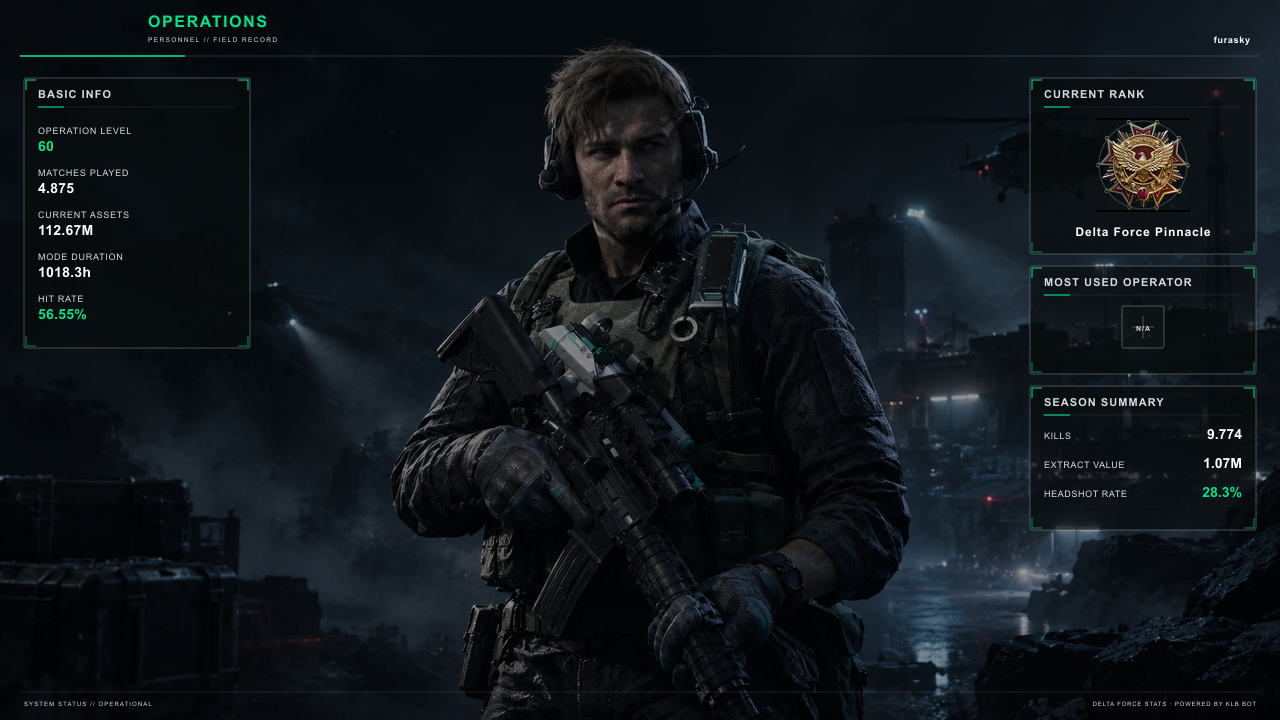
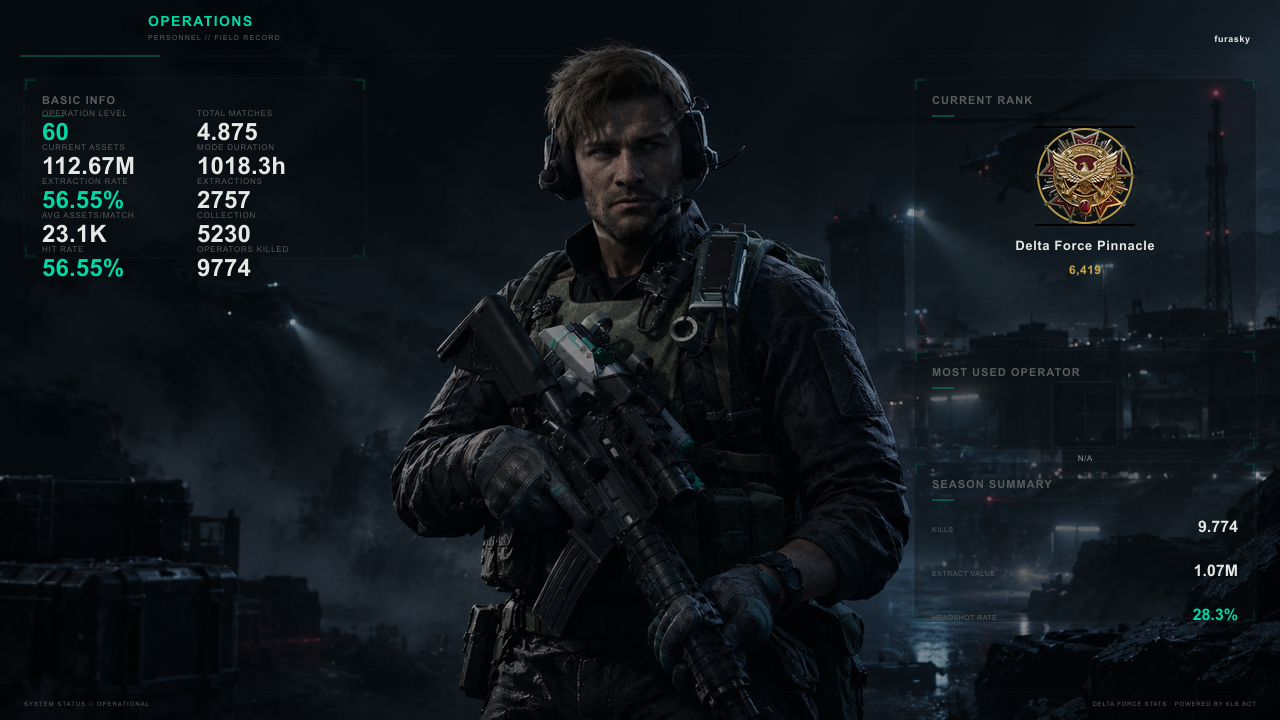
chore: update dev-preview.png and svg-renderer (unrelated changes)

diff --git a/src/renderers/df-stats/svg-renderer.ts b/src/renderers/df-stats/svg-renderer.ts
@@ -85,28 +85,31 @@ const GAP = 12; // 16 → 12 (tighter gap between right panels)
 
 const HEADER_H = 56;
 
-/* Panel trái — 9 metrics, 2-column grid (v3: larger) */
-const BASIC_INFO_H = 430; // 379 → 430 (taller panels)
+/* Panel trái — 9 metrics, 2-column grid (v22: fit content tightly) */
+const BASIC_INFO_H = 180; // 200 → 180 (fit 5 rows × 34px = 170px + title area)
 
-/* Panel phải (v3: larger panels) */
-const RANK_H = 310; // 279 → 310 (more rank prominence)
-const OPERATOR_H = 165; // 148 → 165 (secondary but readable)
-const SEASON_H = 200; // 180 → 200 (secondary but spacious)
+/* Panel phải (v7: compact stack — 614px available, 2 gaps = 24px) */
+const RANK_H = 260; // 240 → 260 (emblem 200 + title + score + name fit)
+const OPERATOR_H = 100; // 110 → 100 (portrait 65 + title + name, compact N/A)
+const SEASON_H = 160; // 180 → 160 (3 rows + title, compact)
+/* Total: 260 + 12 + 100 + 12 + 160 = 544px — 70px clearance from footer */
 
 /* Panel internals (v3: more spacious) */
 const PANEL_PAD = 18; // 14 → 18 (more breathing room)
 const TITLE_Y = 26; // 22 → 26
 const DIVIDER_Y = 38; // 34 → 38
 
-/* Basic info — 2-column grid layout (v3: wider cols) */
-const BI_START_Y = 57;
+/* Basic info — 2-column grid layout (v21: fit 200px panel) */
+const BI_START_Y = 38; // 40 → 38 (content starts after divider)
 const BI_COL_W = 155; // 121 → 155 (wider cols for larger panels)
-const BI_ROW_H = 50; // 44 → 50 (more breathing room)
+const BI_ROW_H = 34; // 40 → 34 (5 rows × 34 = 170px + start 38 = 208px ≈ 200px)
 
-/* Rank (v3: larger emblem for bigger panel) */
-const RANK_EMBLEM_SIZE = 200; // 174 → 200 (prominent rank)
-const RANK_EMBLEM_TOP = RIGHT_COL.y + 65; // 55 → 65 (re-center)
-const RANK_CENTER_X = RIGHT_COL.x + RIGHT_COL.w / 2;
+/* Rank (v8: vertically stacked, centered) */
+const RANK_EMBLEM_SIZE = 100; // giữ nguyên
+const RANK_EMBLEM_CX = RIGHT_COL.x + RIGHT_COL.w / 2; // centered
+const RANK_EMBLEM_CY = RIGHT_COL.y + 48 + RANK_EMBLEM_SIZE / 2; // below title
+const RANK_NAME_Y = RIGHT_COL.y + 48 + RANK_EMBLEM_SIZE + 24; // below emblem
+const RANK_SCORE_Y = RANK_NAME_Y + 24; // below name
 
 /* Operator (v3: larger portrait) */
 const OPERATOR_PORTRAIT_SIZE = 65; // 51 → 65 (more visible)
@@ -232,9 +235,9 @@ export async function renderDashboard(viewModel: DFStatsViewModel): Promise<Buff
         .png()
         .toBuffer();
 
-      const rankLeft = Math.round(RANK_CENTER_X - RANK_EMBLEM_SIZE / 2);
+      const rankLeft = RANK_EMBLEM_CX - RANK_EMBLEM_SIZE / 2;
 
-      const rankTop = RANK_EMBLEM_TOP;
+      const rankTop = RANK_EMBLEM_CY - RANK_EMBLEM_SIZE / 2;
 
       composite = await sharp(composite)
         .composite([
@@ -391,7 +394,7 @@ function renderHeader(nickname: string): string {
   let s = '';
 
   /*
-   * Header baseline.
+   * Header baseline — thin, subtle.
    */
   s +=
     '<line x1="20" y1="' +
@@ -402,19 +405,19 @@ function renderHeader(nickname: string): string {
     HEADER_H +
     '" stroke="' +
     COLORS.borderPanel +
-    '" stroke-width="1" opacity="0.55"/>';
+    '" stroke-width="0.5" opacity="0.35"/>';
 
   /*
-   * Accent tactical xanh lá ngắn.
+   * Accent tactical xanh lá ngắn — thin, restrained.
    */
   s +=
     '<line x1="20" y1="' +
     HEADER_H +
-    '" x2="185" y2="' +
+    '" x2="160" y2="' +
     HEADER_H +
     '" stroke="' +
     COLORS.accent +
-    '" stroke-width="2" opacity="0.75"/>';
+    '" stroke-width="1" opacity="0.50"/>';
 
   /*
    * Logo Delta Force.
@@ -422,12 +425,12 @@ function renderHeader(nickname: string): string {
   s += imageTag(ASSETS.logos.deltaForce, 24, 10, 112, 26);
 
   /*
-   * Nhãn Operations — tactical green accent.
+   * Nhãn Operations — tactical green accent, smaller.
    */
   s +=
-    '<text x="148" y="27" fill="' +
+    '<text x="148" y="26" fill="' +
     COLORS.accent +
-    '" font-size="16" font-weight="700" letter-spacing="1.6" font-family="' +
+    '" font-size="14" font-weight="700" letter-spacing="1.4" font-family="' +
     TYPO.primary +
     '">' +
     'OPERATIONS' +
@@ -437,9 +440,9 @@ function renderHeader(nickname: string): string {
    * Nhãn phụ nhỏ — muted.
    */
   s +=
-    '<text x="148" y="42" fill="' +
+    '<text x="148" y="40" fill="' +
     COLORS.textMuted +
-    '" font-size="7" font-weight="400" letter-spacing="1.4" font-family="' +
+    '" font-size="7" font-weight="400" letter-spacing="1.2" font-family="' +
     TYPO.primary +
     '">' +
     'PERSONNEL // FIELD RECORD' +
@@ -461,9 +464,9 @@ function renderHeader(nickname: string): string {
   s +=
     '<text x="' +
     (CANVAS.width - 30) +
-    '" y="43" fill="' +
+    '" y="42" fill="' +
     COLORS.textPrimary +
-    '" font-size="9" font-weight="700" letter-spacing="0.7" font-family="' +
+    '" font-size="9" font-weight="600" letter-spacing="0.6" font-family="' +
     TYPO.primary +
     '" text-anchor="end">' +
     fitText(nickname, 125, 9) +
@@ -604,22 +607,21 @@ function renderRank(rankName: string, rankScore: number): string {
   s += panelTitle(x, y, w, 'CURRENT RANK');
 
   /*
-   * Placeholder cho ảnh rank thật.
+   * Hierarchy: title → emblem → rank name → score
    *
+   * Vertically stacked, centered in panel.
    * Ảnh thật được composite sau SVG render
-   * với cùng tọa độ top/left.
+   * với cùng tọa độ cx/cy.
    */
-  const cx = RANK_CENTER_X;
-  const cy = RANK_EMBLEM_TOP + RANK_EMBLEM_SIZE / 2;
 
   /*
-   * Outer circle — dark bg for rank emblem (thicker border, v2)
+   * Outer circle — dark bg for rank emblem
    */
   s +=
     '<circle cx="' +
-    cx +
+    RANK_EMBLEM_CX +
     '" cy="' +
-    cy +
+    RANK_EMBLEM_CY +
     '" r="' +
     (RANK_EMBLEM_SIZE / 2 - 3) +
     '" fill="rgba(7,10,12,0.55)" stroke="' +
@@ -627,13 +629,13 @@ function renderRank(rankName: string, rankScore: number): string {
     '" stroke-width="2" opacity="0.9"/>';
 
   /*
-   * Inner decorative circle — gold accent (stronger, double ring)
+   * Inner decorative circle — gold accent
    */
   s +=
     '<circle cx="' +
-    cx +
+    RANK_EMBLEM_CX +
     '" cy="' +
-    cy +
+    RANK_EMBLEM_CY +
     '" r="' +
     (RANK_EMBLEM_SIZE / 2 - 10) +
     '" fill="none" stroke="' +
@@ -645,9 +647,9 @@ function renderRank(rankName: string, rankScore: number): string {
    */
   s +=
     '<circle cx="' +
-    cx +
+    RANK_EMBLEM_CX +
     '" cy="' +
-    cy +
+    RANK_EMBLEM_CY +
     '" r="' +
     (RANK_EMBLEM_SIZE / 2 + 2) +
     '" fill="none" stroke="' +
@@ -655,36 +657,35 @@ function renderRank(rankName: string, rankScore: number): string {
     '" stroke-width="0.5" opacity="0.3"/>';
 
   /*
-   * Rank score — numeric value below emblem (larger, bold).
-   * Dùng textSecondary (sáng) để readable trên panel tối.
+   * Rank name — centered below emblem (white, not gold)
    */
   s +=
     '<text x="' +
-    cx +
+    RANK_EMBLEM_CX +
     '" y="' +
-    (RANK_EMBLEM_TOP + RANK_EMBLEM_SIZE + 22) +
+    RANK_NAME_Y +
     '" fill="' +
-    COLORS.rankGold +
-    '" font-size="14" font-weight="700" letter-spacing="0.6" font-family="' +
+    COLORS.textPrimary +
+    '" font-size="13" font-weight="700" letter-spacing="0.6" font-family="' +
     TYPO.primary +
     '" text-anchor="middle">' +
-    rankScore.toLocaleString('vi-VN') +
+    fitText(rankName, w - 30, 13) +
     '</text>';
 
   /*
-   * Rank name — centered, bold, gold accent
+   * Rank score — ONCE, centered below name (gold, comma separator)
    */
   s +=
     '<text x="' +
-    cx +
+    RANK_EMBLEM_CX +
     '" y="' +
-    (y + h - 14) +
+    RANK_SCORE_Y +
     '" fill="' +
     COLORS.rankGold +
-    '" font-size="12" font-weight="700" letter-spacing="1.0" font-family="' +
+    '" font-size="12" font-weight="600" letter-spacing="0.5" font-family="' +
     TYPO.primary +
     '" text-anchor="middle">' +
-    fitText(rankName, w - 30, 12) +
+    rankScore.toLocaleString('en-US') +
     '</text>';
 
   return s;
@@ -833,7 +834,7 @@ function renderFooter(): string {
   const y = CANVAS.height - 28;
 
   /*
-   * Footer separator.
+   * Footer separator — thin, very subtle.
    */
   s +=
     '<line x1="20" y1="' +
@@ -844,24 +845,24 @@ function renderFooter(): string {
     y +
     '" stroke="' +
     COLORS.borderPanel +
-    '" stroke-width="1" opacity="0.32"/>';
+    '" stroke-width="0.5" opacity="0.20"/>';
 
   /*
-   * Status trái.
+   * Status trái — muted, low weight.
    */
   s +=
     '<text x="24" y="' +
     (CANVAS.height - 14) +
     '" fill="' +
     COLORS.textMuted +
-    '" font-size="6" font-weight="500" letter-spacing="1.1" font-family="' +
+    '" font-size="6" font-weight="400" letter-spacing="1.0" font-family="' +
     TYPO.primary +
     '">' +
     'SYSTEM STATUS // OPERATIONAL' +
     '</text>';
 
   /*
-   * Branding phải.
+   * Branding phải — muted, low weight.
    */
   s +=
     '<text x="' +
@@ -888,7 +889,7 @@ function renderFooter(): string {
  *
  * Reference: rgba(10-25,25-35,25-35,0.70-0.90)
  *
- * v2: Giảm border weight để giảm "card" feel.
+ * v3: Giảm opacity để poster chiếm ưu thế, panels hòa vào poster.
  */
 function panelRect(x: number, y: number, w: number, h: number): string {
   return (
@@ -906,7 +907,7 @@ function panelRect(x: number, y: number, w: number, h: number): string {
     COLORS.bgPanel +
     '" stroke="' +
     COLORS.borderPanel +
-    '" stroke-width="0.5" opacity="0.6"/>'
+    '" stroke-width="0.5" opacity="0.45"/>'
   );
 }
 
@@ -921,7 +922,7 @@ function tacticalCorners(x: number, y: number, w: number, h: number): string {
   let s = '';
 
   /*
-   * Top-left (v2: reduced opacity for less card feel).
+   * Top-left (v3: reduced opacity for subtle tactical feel).
    */
   s +=
     '<path d="M ' +
@@ -938,10 +939,10 @@ function tacticalCorners(x: number, y: number, w: number, h: number): string {
     (y + 2) +
     '" fill="none" stroke="' +
     accent +
-    '" stroke-width="1" opacity="0.45"/>';
+    '" stroke-width="1" opacity="0.30"/>';
 
   /*
-   * Top-right (v2: reduced opacity).
+   * Top-right (v3: reduced opacity).
    */
   s +=
     '<path d="M ' +
@@ -958,10 +959,10 @@ function tacticalCorners(x: number, y: number, w: number, h: number): string {
     (y + 12) +
     '" fill="none" stroke="' +
     accent +
-    '" stroke-width="1" opacity="0.45"/>';
+    '" stroke-width="1" opacity="0.30"/>';
 
   /*
-   * Bottom-left (v2: reduced opacity).
+   * Bottom-left (v3: reduced opacity).
    */
   s +=
     '<path d="M ' +
@@ -978,10 +979,10 @@ function tacticalCorners(x: number, y: number, w: number, h: number): string {
     (y + h - 2) +
     '" fill="none" stroke="' +
     accent +
-    '" stroke-width="1" opacity="0.25"/>';
+    '" stroke-width="1" opacity="0.20"/>';
 
   /*
-   * Bottom-right (v2: reduced opacity).
+   * Bottom-right (v3: reduced opacity).
    */
   s +=
     '<path d="M ' +
@@ -998,7 +999,7 @@ function tacticalCorners(x: number, y: number, w: number, h: number): string {
     (y + h - 12) +
     '" fill="none" stroke="' +
     accent +
-    '" stroke-width="1" opacity="0.25"/>';
+    '" stroke-width="1" opacity="0.20"/>';
 
   return s;
 }
